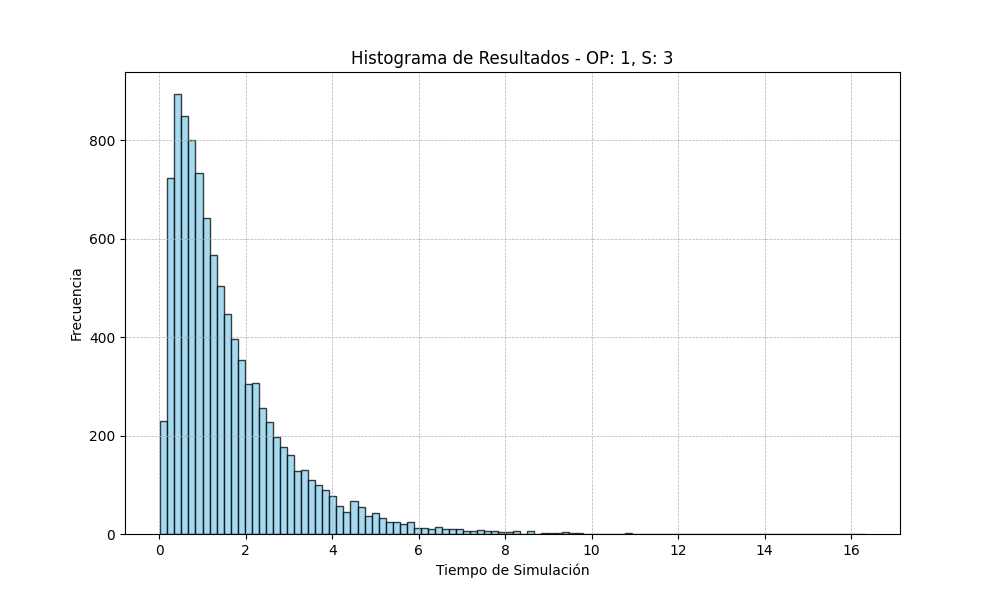
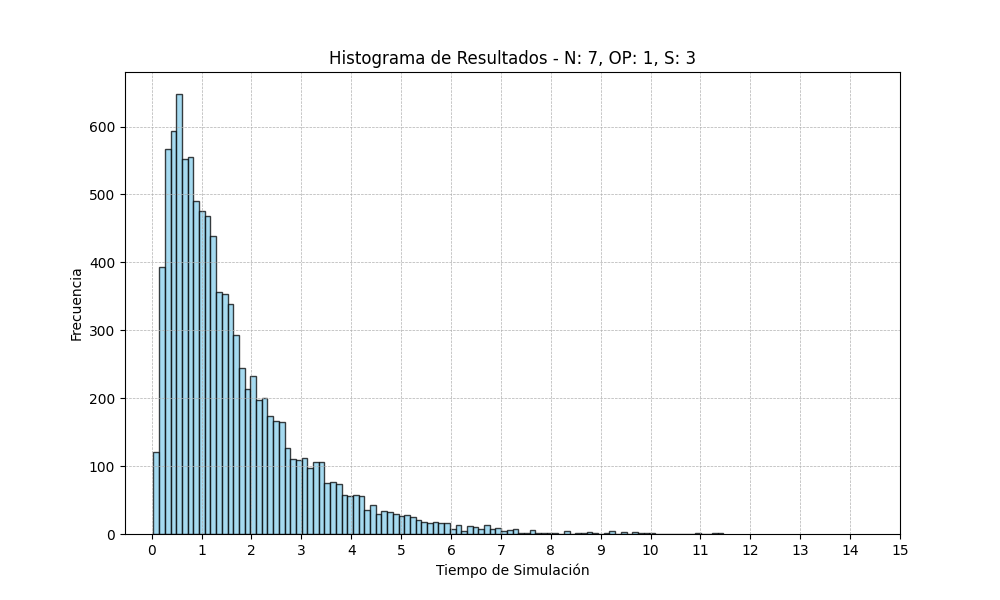
change_grafics

diff --git a/Hubmann-PereyraCarrillo.py b/Hubmann-PereyraCarrillo.py
@@ -73,18 +73,20 @@ def statics(N,S,OP):
 
 casos_de_estudio = [[7,3,1], [7,3,2], [7,4,1]]
 results = []    # used for making the graph of the esperanza and desviación estandar
-
+xticks_values = [(16,1),(36,4),(20,2)]
+i = 0
 for value in casos_de_estudio:
     esperanza, desviacion_estandar, sim_result = statics(*value)
     # This will graph the results of each simualtion
     plt.figure(figsize=(10, 6))
     plt.hist(sim_result, bins=100, alpha=0.75, color='skyblue', edgecolor='black')
-    plt.title(f'Histograma de Resultados - OP: {value[2]}, S: {value[1]}')
+    plt.title(f'Histograma de Resultados - N: {value[0]}, OP: {value[2]}, S: {value[1]}')
     plt.xlabel('Tiempo de Simulación')
     plt.ylabel('Frecuencia')
     plt.grid(True, which='both', linestyle='--', linewidth=0.5)
-    plt.xticks(range(0, 33, 2))
+    plt.xticks(range(0, xticks_values[i][0], xticks_values[i][1]))
     plt.show()
+    i +=1
 
     # This will graph the esperanza and desviación estandar
     results.append({'N': value[0], 'S': value[1], 'OP': value[2], 'Media': esperanza, 'Desviación Estándar': desviacion_estandar})
